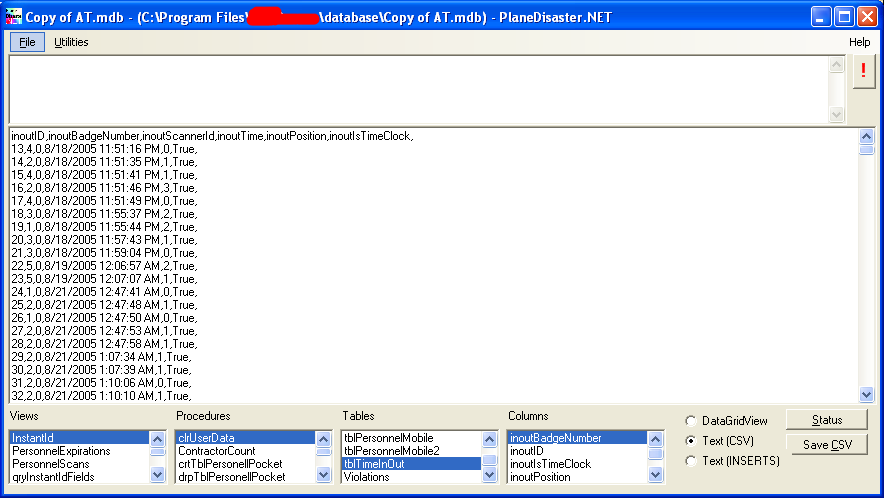
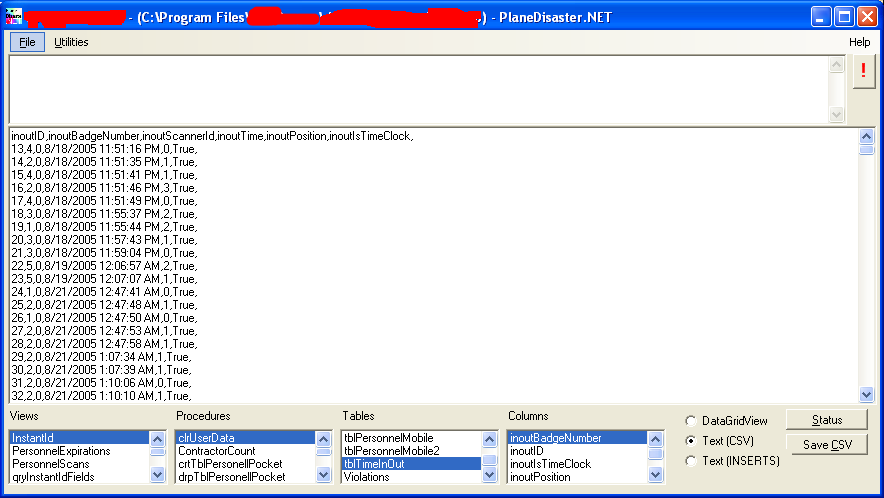
Cleaned up screenshots.
git-svn-id: https://plane-disaster.svn.sourceforge.net/svnroot/plane-disaster/trunk@51 b6e9dbbe-bf1e-0410-883a-b328e32b9170

Changed region(s): [[0.3665, 0.0, 0.5498, 0.0602], [0.0305, 0.0, 0.1527, 0.0602]]

diff --git a/WebSite/screenshots.html b/WebSite/screenshots.html
@@ -1,24 +1,26 @@
-<!DOCTYPE html PUBLIC "-//W3C//DTD HTML 4.01 Transitional//EN">
+<!DOCTYPE html PUBLIC "-//W3C//DTD XHTML 1.0 Strict//EN" "http://www.w3.org/TR/xhtml1/DTD/xhtml1-transitional.dtd">
 <html>
 <head>
-  <meta content="text/html; charset=ISO-8859-1" http-equiv="content-type">
-  <link href="PlaneDisaster.css" type="text/css" rel="stylesheet">
+  <meta content="text/html; charset=ISO-8859-1" http-equiv="content-type" />
+  <link href="PlaneDisaster.css" type="text/css" rel="stylesheet" />
   <title>ScreenShots - PlaneDisaster.NET</title>
 </head>
 <body>
+<div id="content" style="right: 0px">
 <h1 class="firstHeading">Screen Shots - PlaneDisaster.NET</h1>
-<p>Here are some screenshots showing PlaneDisaster.NET in action. Being it is displaying on REAL DATA I had to slightly doctor the images.</p>
+<p>Here are some screenshots showing PlaneDisaster.NET in action. Being it is displaying REAL DATA I had to slightly doctor the images.</p>
 <img style="width: 884px; height: 498px;" alt="Table With Pictures"
-src="screenshots/table_with_pictures.png"><br>
+src="screenshots/table_with_pictures.png" /><br />
 <span class="caption">Displaying a table with pictures.</span><br /><br />
 <img style="width: 884px; height: 498px;" alt="Table With Boolean field"
- src="screenshots/table_with_boolean.png"><br>
+ src="screenshots/table_with_boolean.png" /><br />
 <span class="caption">Displaying a table with a boolean field.</span><br /><br />
 <img style="width: 884px; height: 498px;"
- alt="Comma Seperated Value (CSV) View" src="screenshots/csv_view.png"><br>
+ alt="Comma Seperated Value (CSV) View" src="screenshots/csv_view.png" /><br />
 <span class="caption">Displaying a table with a boolean field in CSV format.</span><br /><br />
 <img style="width: 884px; height: 498px;" alt="Insert (SQL) View"
- src="screenshots/insert_view.png">Displaying the SQL INSERT statements with a boolean field.<br>
-<span class="caption"></span><br /><br />
+ src="screenshots/insert_view.png" /><br />
+<span class="caption">Displaying the SQL INSERT statements with a boolean field.</span><br /><br />
+</div>
 </body>
 </html>
